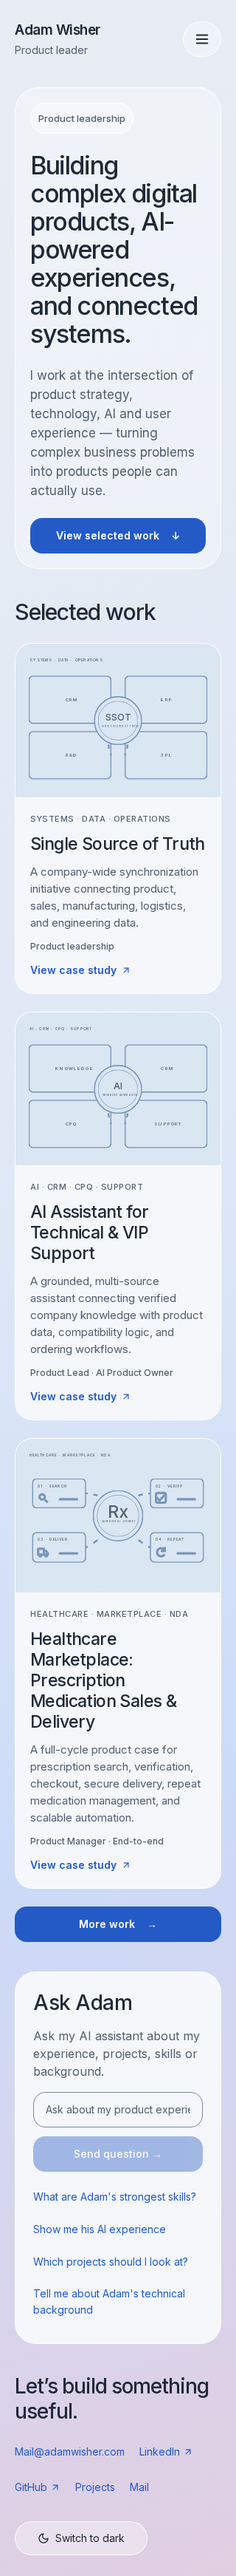
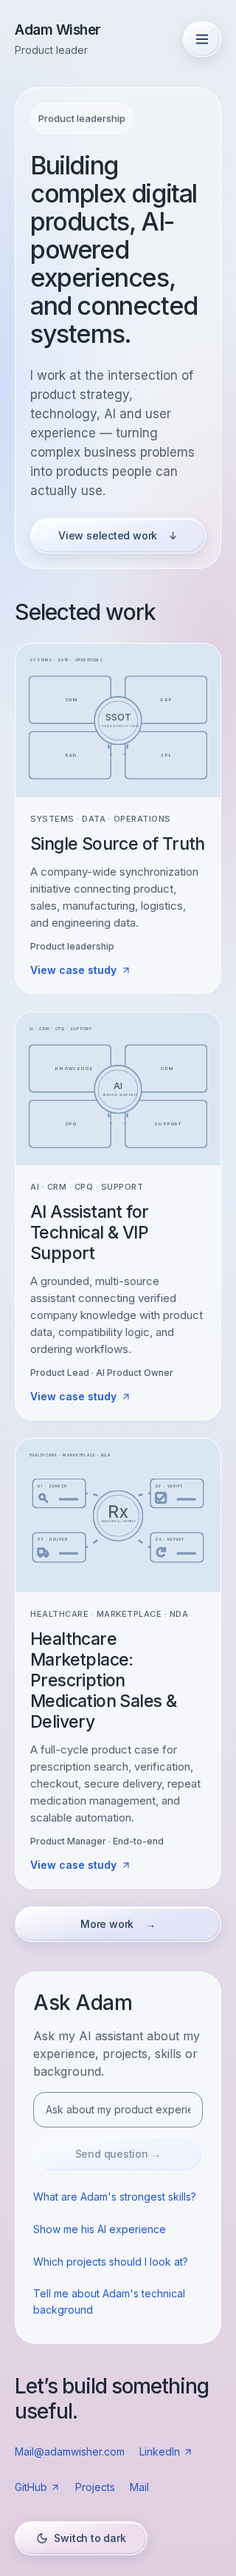
Apply Liquid Glass controls and match reference lighting; validate fonts and accessibility

diff --git a/app/liquid-glass.css b/app/liquid-glass.css
@@ -1,0 +1,167 @@
+/* User-requested revision: optical controls inspired by Apple HIG Materials.
+   A CSS web approximation, not Apple's native Liquid Glass renderer. */
+:root,
+:root.light {
+  --reference-base: #e8edf3;
+  --reference-blue: #ccdbf8;
+  --reference-lilac: #e1cee1;
+  --liquid-text: #263e62;
+  --liquid-tint: rgb(255 255 255 / 0.3);
+  --liquid-primary-tint: rgb(221 234 255 / 0.48);
+  --liquid-light: rgb(255 255 255 / 0.72);
+  --liquid-edge: rgb(255 255 255 / 0.88);
+  --liquid-shadow: rgb(54 74 112 / 0.13);
+  --liquid-bottom: rgb(100 127 172 / 0.18);
+  --page-gradient:
+    radial-gradient(
+      ellipse 68vw 54vh at 0% 58vh,
+      rgb(204 219 248 / 0.92),
+      transparent 100%
+    ),
+    radial-gradient(
+      ellipse 58vw 54vh at 92% 100vh,
+      rgb(225 206 225 / 0.94),
+      transparent 100%
+    ),
+    linear-gradient(180deg, #e8edf3 0%, #e5ecf6 45%, #e1cee1 100%);
+}
+:root.dark {
+  --reference-base: #121925;
+  --liquid-text: #f3f6fc;
+  --liquid-tint: rgb(34 48 70 / 0.68);
+  --liquid-primary-tint: rgb(49 75 112 / 0.72);
+  --liquid-light: rgb(255 255 255 / 0.12);
+  --liquid-edge: rgb(209 225 250 / 0.44);
+  --liquid-shadow: rgb(4 10 22 / 0.32);
+  --liquid-bottom: rgb(0 0 0 / 0.35);
+  --page-gradient:
+    radial-gradient(
+      ellipse 68vw 54vh at 0% 58vh,
+      rgb(45 72 110 / 0.8),
+      transparent 100%
+    ),
+    radial-gradient(
+      ellipse 58vw 54vh at 92% 100vh,
+      rgb(81 58 89 / 0.75),
+      transparent 100%
+    ),
+    linear-gradient(180deg, #121925 0%, #1c283b 100%);
+}
+/* Viewport-scaled first-screen light fields keep the reference's blue/lilac placement
+   independent of the length of a case study or course list. */
+body {
+  position: relative;
+  isolation: isolate;
+  background: var(--reference-base);
+}
+body::before {
+  content: "";
+  position: absolute;
+  inset: 0;
+  z-index: -1;
+  pointer-events: none;
+  background: var(--page-gradient);
+}
+:is(.primary-button, .nav-pill, .glass-control, .liquid-button) {
+  position: relative;
+  isolation: isolate;
+  border: 1px solid var(--liquid-edge);
+  border-radius: 999px;
+  background:
+    linear-gradient(
+      155deg,
+      var(--liquid-light) 0%,
+      transparent 48%,
+      rgb(255 255 255 / 0.09) 100%
+    ),
+    var(--liquid-tint);
+  color: var(--liquid-text);
+  box-shadow:
+    0 6px 18px var(--liquid-shadow),
+    inset 0 1px 0 var(--liquid-edge),
+    inset 0 -1px 1px var(--liquid-bottom);
+  -webkit-backdrop-filter: blur(20px) saturate(145%);
+  backdrop-filter: blur(20px) saturate(145%);
+  font-weight: 500;
+  letter-spacing: -0.015em;
+  text-decoration: none;
+  transition:
+    background-color 0.18s,
+    box-shadow 0.18s,
+    transform 0.18s;
+}
+:is(.primary-button, .liquid-button--primary) {
+  background-color: var(--liquid-primary-tint);
+}
+:is(.primary-button, .nav-pill, .glass-control, .liquid-button)::before {
+  content: "";
+  position: absolute;
+  inset: 1px;
+  z-index: -1;
+  border-radius: inherit;
+  pointer-events: none;
+  background: radial-gradient(
+    ellipse at 22% -25%,
+    var(--liquid-light),
+    transparent 68%
+  );
+  box-shadow:
+    inset 1px 1px 1px var(--liquid-edge),
+    inset -1px -1px 2px var(--liquid-bottom);
+}
+.nav-pill[aria-current="page"] {
+  color: rgb(var(--color-accent));
+  background-color: var(--liquid-primary-tint);
+}
+@media (hover: hover) and (pointer: fine) {
+  :is(.primary-button, .nav-pill, .glass-control, .liquid-button):hover:not(
+      :disabled
+    ) {
+    background-color: var(--liquid-primary-tint);
+    color: var(--liquid-text);
+    box-shadow:
+      0 8px 22px var(--liquid-shadow),
+      inset 0 1px 1px var(--liquid-edge),
+      inset 0 -1px 2px var(--liquid-bottom);
+    transform: translateY(-1px);
+  }
+}
+:is(.primary-button, .nav-pill, .glass-control, .liquid-button):active:not(
+    :disabled
+  ) {
+  transform: translateY(1px) scale(0.985);
+}
+.liquid-button:disabled {
+  opacity: 0.58;
+  box-shadow: inset 0 1px 0 var(--liquid-edge);
+}
+/* Content remains on standard, denser materials; optical effects belong to controls. */
+@supports not (
+  (backdrop-filter: blur(20px)) or (-webkit-backdrop-filter: blur(20px))
+) {
+  :is(.primary-button, .nav-pill, .glass-control, .liquid-button) {
+    background: var(--surface-solid);
+    border-color: var(--control-border);
+    box-shadow: none;
+  }
+  :is(.primary-button, .nav-pill, .glass-control, .liquid-button)::before {
+    display: none;
+  }
+}
+@media (prefers-reduced-transparency: reduce), (prefers-contrast: more) {
+  :is(.primary-button, .nav-pill, .glass-control, .liquid-button) {
+    background: var(--surface-solid);
+    border-color: var(--control-border);
+    -webkit-backdrop-filter: none;
+    backdrop-filter: none;
+    box-shadow: none;
+  }
+  :is(.primary-button, .nav-pill, .glass-control, .liquid-button)::before {
+    display: none;
+  }
+}
+@media (prefers-reduced-motion: reduce) {
+  :is(.primary-button, .nav-pill, .glass-control, .liquid-button) {
+    transition: none;
+  }
+}

diff --git a/components/contact/contact-panel.tsx b/components/contact/contact-panel.tsx
@@ -52,7 +52,7 @@ export function ContactPanel() {
           <Phone className="text-accent" size={24} aria-hidden="true" />
           <p className="mt-6 font-mono text-xs uppercase tracking-wide text-muted-foreground">Phone</p>
           {phone ? <a href={`tel:${phone}`} className="focus-ring mt-2 inline-block rounded-sm font-display text-2xl">{phone}</a> : <p className="mt-2 select-none font-display text-2xl text-muted-foreground" aria-label="Phone number hidden">+972 •• ••• •• ••</p>}
-          {!phone ? <button onClick={revealPhone} disabled={phoneLoading} aria-expanded={Boolean(phone)} className="focus-ring mt-5 rounded-md border border-border px-4 py-2.5 text-sm transition-colors hover:border-accent disabled:opacity-50">{phoneLoading ? "Revealing…" : "Show phone number"}</button> : null}
+          {!phone ? <button onClick={revealPhone} disabled={phoneLoading} aria-expanded={Boolean(phone)} className="focus-ring liquid-button mt-5 px-4 py-2.5 text-sm disabled:opacity-50">{phoneLoading ? "Revealing…" : "Show phone number"}</button> : null}
           <p className="mt-4 text-sm text-muted-foreground">Prefer a scheduled conversation? Choose “Request a call” in the form.</p>
           {phoneError ? <p role="alert" className="mt-3 text-sm text-red-400">{phoneError}</p> : null}
         </div>
@@ -73,7 +73,7 @@ export function ContactPanel() {
             <label className="flex items-start gap-3 text-xs leading-relaxed text-muted-foreground"><input type="checkbox" name="consent" required disabled={sending} className="focus-ring mt-1 accent-blue-500" />I agree that my name, email, and message will be used to respond to this request.</label>
             <p className="text-xs leading-relaxed text-muted-foreground">Your request is emailed to me. Please avoid sharing passwords or sensitive information.</p>
             {error ? <p role="alert" className="text-sm text-red-400">{error}</p> : null}
-            <button type="submit" disabled={sending} className="focus-ring flex min-h-12 w-full items-center justify-center gap-2 rounded-md bg-accent px-5 py-3 text-sm font-medium text-accent-foreground transition-colors hover:bg-accent/90 disabled:opacity-50">{sending ? "Sending…" : "Send request"}<ArrowUpRight size={16} aria-hidden="true" /></button>
+            <button type="submit" disabled={sending} className="focus-ring flex min-h-12 w-full items-center justify-center gap-2 rounded-md liquid-button liquid-button--primary px-5 py-3 text-sm font-medium transition-colors disabled:opacity-50">{sending ? "Sending…" : "Send request"}<ArrowUpRight size={16} aria-hidden="true" /></button>
           </form>
         )}
       </section>

diff --git a/tests/e2e/portfolio.spec.ts b/tests/e2e/portfolio.spec.ts
@@ -87,6 +87,11 @@ for (const width of [1440, 390, 320]) {
       path: `docs/review/home-${width}-light.png`,
       fullPage: true,
     });
+    if (width === 390)
+      await page.screenshot({
+        path: "docs/review/liquid-glass-mobile.png",
+        fullPage: false,
+      });
     await page.getByRole("button", { name: "Switch to dark theme" }).click();
     await expect(page.locator("html")).toHaveClass("dark");
     await page.reload();
@@ -253,4 +258,37 @@ test("intermediate widths, reduced motion, visible focus and real local Ask Adam
   await page.locator("#ask-adam-input").fill("Show me Adam's AI experience.");
   await page.getByRole("button", { name: "Send question to Ask Adam" }).click();
   await expect(page.getByRole("log")).toContainText("INNOVA");
+});
+
+test("glass controls retain a legible opaque alternative and Inter loads", async ({
+  page,
+  context,
+}) => {
+  await page.setViewportSize({ width: 390, height: 900 });
+  await page.goto("/");
+  await page.evaluate(() => document.fonts.ready);
+  expect(
+    await page.evaluate(() =>
+      Array.from(document.fonts).some(
+        (font) => font.family.includes("Inter") && font.status === "loaded",
+      ),
+    ),
+  ).toBe(true);
+  const action = page.getByRole("link", { name: "View selected work" });
+  const before = await action.boundingBox();
+  const session = await context.newCDPSession(page);
+  await session.send("Emulation.setEmulatedMedia", {
+    features: [{ name: "prefers-reduced-transparency", value: "reduce" }],
+  });
+  expect(
+    await action.evaluate((el) => getComputedStyle(el).backdropFilter),
+  ).toBe("none");
+  await expect(action).toBeVisible();
+  expect(await action.boundingBox()).toEqual(before);
+  const a11y = await new AxeBuilder({ page })
+    .withTags(["wcag2a", "wcag2aa", "wcag21aa", "wcag22aa"])
+    .analyze();
+  expect(a11y.violations).toEqual([]);
+  await action.click();
+  await expect(page).toHaveURL(/#selected-work$/);
 });

diff --git a/app/projects/login/page.tsx b/app/projects/login/page.tsx
@@ -94,7 +94,7 @@ export default async function ProjectsLoginPage({
               <button
                 type="submit"
                 disabled={!configured}
-                className="focus-ring mt-5 flex min-h-12 w-full items-center justify-center rounded-md bg-accent px-5 py-3 text-sm font-medium text-accent-foreground transition-colors hover:bg-accent/90 disabled:cursor-not-allowed disabled:opacity-50"
+                className="focus-ring mt-5 flex min-h-12 w-full items-center justify-center rounded-md liquid-button liquid-button--primary px-5 py-3 text-sm font-medium transition-colors disabled:cursor-not-allowed disabled:opacity-50"
               >
                 Open projects
               </button>

diff --git a/app/globals.css b/app/globals.css
@@ -168,9 +168,7 @@ input:disabled {
   font-weight: 500;
   background: var(--surface-solid);
 }
-.nav-pill:hover,
 .nav-pill[aria-current="page"] {
-  background: var(--surface-solid);
   color: rgb(var(--color-accent));
 }
 .glass-control {
@@ -283,9 +281,6 @@ input:disabled {
   font-weight: 600;
   line-height: 22px;
   transition: background 0.15s;
-}
-.primary-button:hover {
-  background: var(--interactive);
 }
 .primary-button:active,
 button:active:not(:disabled) {

diff --git a/components/ui/button.tsx b/components/ui/button.tsx
@@ -8,8 +8,8 @@ export interface ButtonProps
 }
 
 const variantClasses: Record<NonNullable<ButtonProps["variant"]>, string> = {
-  default: "bg-accent text-accent-foreground hover:opacity-90",
-  outline: "border border-border bg-transparent hover:bg-surface",
+  default: "liquid-button liquid-button--primary",
+  outline: "liquid-button",
   ghost: "bg-transparent hover:bg-surface",
 };
 

diff --git a/app/layout.tsx b/app/layout.tsx
@@ -1,6 +1,7 @@
 import type { Metadata } from "next";
 import { Inter, IBM_Plex_Mono } from "next/font/google";
 import "./globals.css";
+import "./liquid-glass.css";
 import { SiteFooter } from "@/components/site-footer";
 
 const inter = Inter({

diff --git a/docs/figma-redesign-implementation.md b/docs/figma-redesign-implementation.md
@@ -1,6 +1,8 @@
 # AdamWisher.com Figma implementation review
 
-Review branch: `feature/figma-portfolio-redesign`. Target: `main`.
+PR #4 was already merged before this follow-up. This revision is based on that merged commit and does not merge or deploy anything.
+
+Review branch: `feature/liquid-glass-controls`. Target: `main`.
 
 This is a review-only implementation. No Figma layouts were edited, no production configuration or DNS was changed, and no merge or deployment was performed.
 
@@ -44,7 +46,7 @@ Run on the local optimized production build using Playwright Chromium headless a
 - `npm run build`: passed; all existing routes compile. Home first-load JavaScript approximately 116kB.
 - `npm run typecheck`: passed.
 - `npm run lint`: passed without lint warnings/errors. Next.js emits its existing `next lint` deprecation notice.
-- `npm run test:e2e`: 11 scenarios pass, covering every public portfolio route at 1440/390/320; no horizontal overflow; asset loading; CTA anchor; dark preference persistence; modal keyboard behavior; Ask Adam loading/error/success/focus; contact validation/error/success/phone reveal; education expansion; protected-route redirects; 768/1024/1180 intermediate widths; reduced motion; visible keyboard focus; actual local Ask Adam response.
+- `npm run test:e2e`: 12 scenarios pass, covering every public portfolio route at 1440/390/320; no horizontal overflow; asset loading; CTA anchor; dark preference persistence; modal keyboard behavior; Ask Adam loading/error/success/focus; contact validation/error/success/phone reveal; education expansion; protected-route redirects; 768/1024/1180 intermediate widths; reduced motion; visible keyboard focus; actual local Ask Adam response.
 - axe WCAG 2/2.1/2.2 A/AA checks: zero violations across the public route/viewport matrix and dark home. This is automated coverage, not a full accessibility certification.
 - Existing `validate:ask-adam`: **79/80**. The unchanged knowledge/API logic cannot confidently answer “What degree does Adam have?” in local fallback mode. No portfolio facts were changed to manufacture a passing answer. API/data files have no diff from the base commit.
 - No existing standalone unit-test suite was present. Real email delivery was not exercised; Contact tests intercept requests and send no mail. Production LLM credentials and successful private-login sessions were not available or requested.
@@ -62,7 +64,7 @@ Case studies inherit the approved shared type/color/surface system; separate app
 No existing repository preview integration was found. Use Node.js 20+ and the local production server:
 
 ```sh
-git clone --branch feature/figma-portfolio-redesign https://github.com/wisheradam/adamwisher-portfolio.git
+git clone --branch feature/liquid-glass-controls https://github.com/wisheradam/adamwisher-portfolio.git
 cd adamwisher-portfolio
 npm ci
 npm run build
@@ -83,3 +85,13 @@ The test runner starts a local production server on port 3100 after `npm run bui
 Review home, Work, About, Education, Contact, the public Projects entry and a case study at 1440, 390 and 320px. Toggle theme, open the mobile menu with keyboard, expand a curriculum, and ask a professional-background question. Contact success/error is safely demonstrated by the mocked e2e test; clicking Send request outside tests uses the unchanged real API when credentials are configured.
 
 **Stop at Draft PR. No merge. No production deployment. Live adamwisher.com remains unchanged.**
+
+## Requested Liquid Glass revision
+
+The owner requested a visual revision after the original Figma implementation: glass buttons and a renewed background/type comparison with the Natali Wisher screenshot. This instruction supersedes the original solid-blue button presentation; Figma itself remains untouched.
+
+Controls now share a CSS Liquid Glass approximation: translucent tint, background blur/saturation, rounded lens edges, inset highlights, restrained shadow, hover/pressed/focus/disabled states, plus opaque fallbacks for reduced transparency, increased contrast and unsupported filters. Main actions, navigation, theme/menu controls and form actions use this treatment. Text suggestions and reading surfaces remain quiet standard materials. This follows the functional-layer distinction in [Apple HIG Materials](https://developer.apple.com/design/human-interface-guidelines/materials); it does not claim to reproduce Apple's native renderer or physical refraction.
+
+Image sampling excluding browser chrome found a neutral patch of #E8EDF3 and a blue patch near #CADBF7, consistent with the approved #CCDBF8 palette within JPEG/gradient variation. Viewport-scaled first-screen radial fields now places blue light on the left and lilac at the lower right, instead of stretching one diagonal gradient over the entire long page. The top remains neutral. Dark uses separately chosen tokens.
+
+Inter remains the approved practical typeface, with 500 headlines/control labels and 600 identity text. The exact font in the bitmap cannot be established reliably. Headline scale, tracking and responsive breaks remain intact; button labels now use a calmer medium weight. The screenshot's Safari UI is not part of the site.
